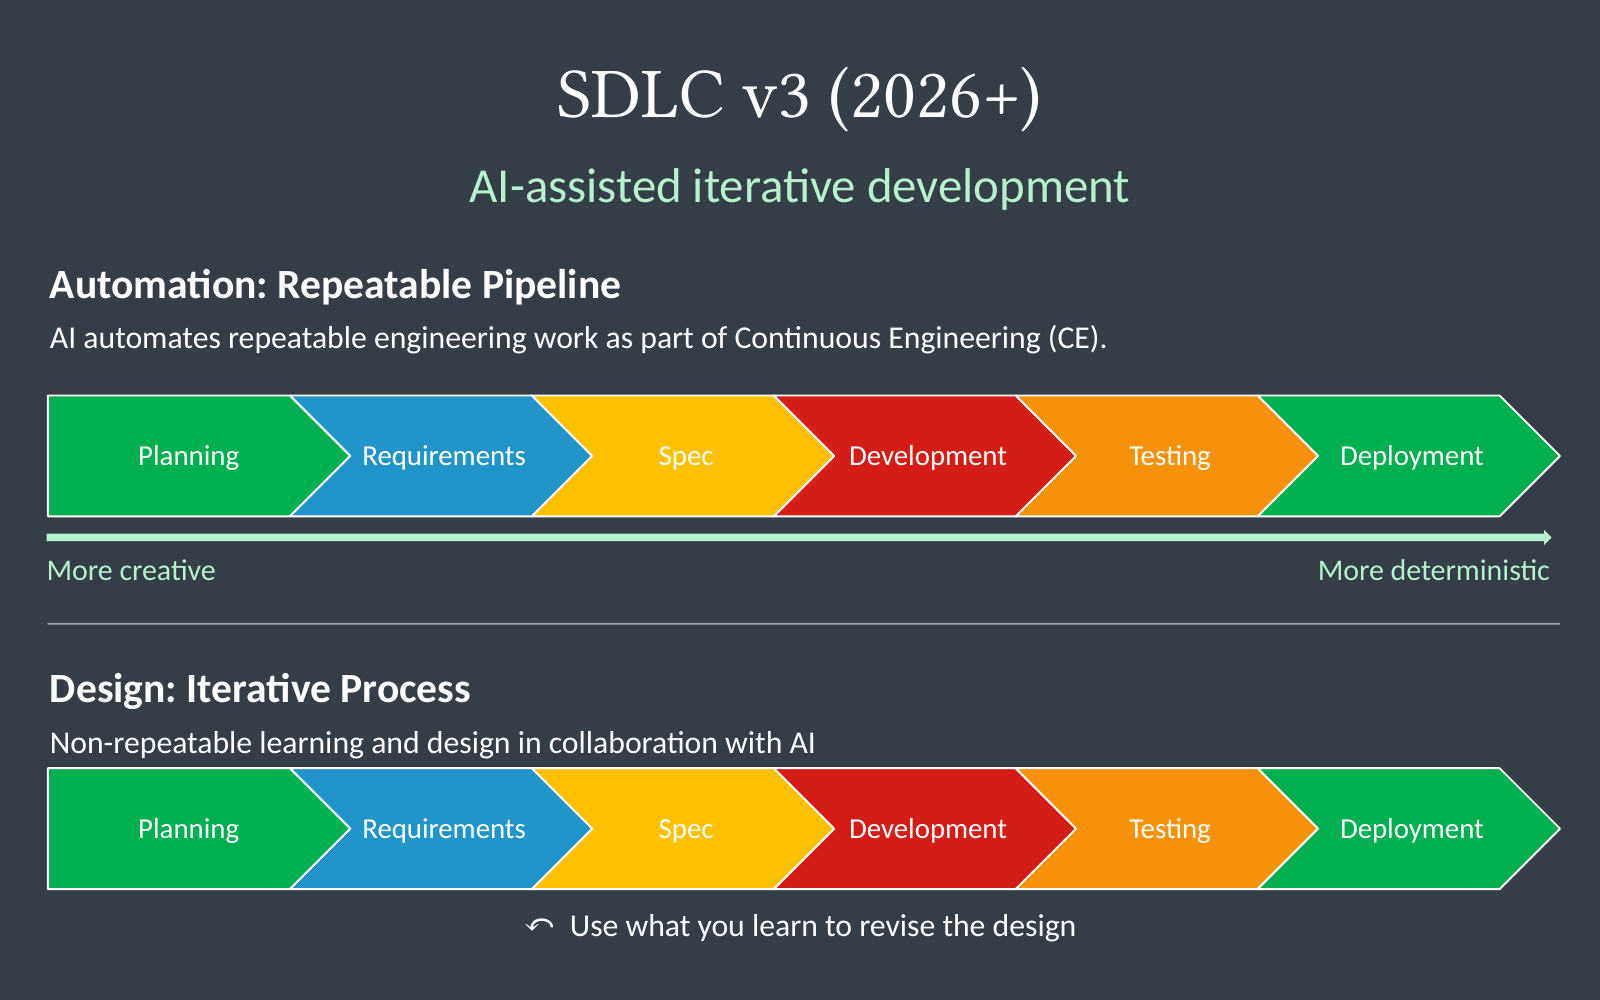
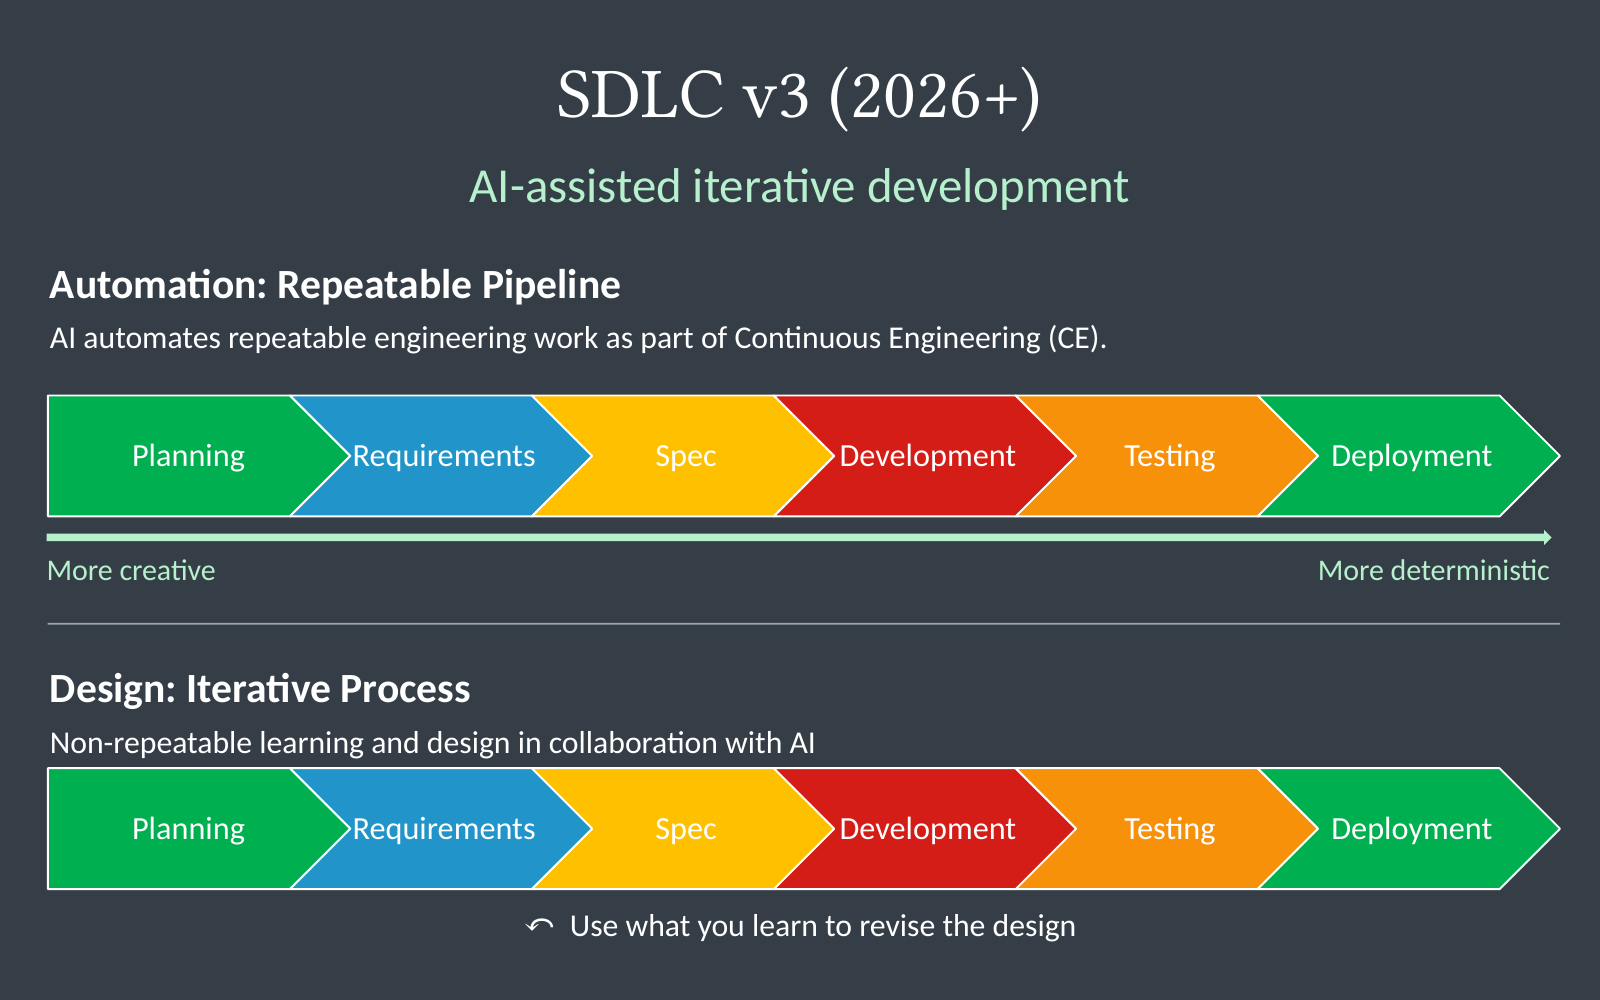
Publish SDLC article in slide format

diff --git a/_posts/2026-11-12-sdlc-in-the-agentic-era.md b/_posts/2026-11-12-sdlc-in-the-agentic-era.md
@@ -1,36 +1,49 @@
 ---
 published: true
 layout: post
-image: /assets/article_images/2026-11-12-sdlc-in-the-agentic-era/sdlc-v3.png
+permalink: /2026-11-12/sdlc-in-the-agentic-era
+image: /assets/article_images/2026-11-12-sdlc-in-the-agentic-era/cover.jpg
+catalogue_image: /assets/article_images/2026-11-12-sdlc-in-the-agentic-era/sdlc-v3.png
 image_width: 1600
 image_height: 1000
-title: The SDLC in the agentic era
+title: Evolution of the Software Development Lifecycle (SDLC)
 context: Essay
+excerpt_separator: "<!--more-->"
+excerpt: In 2026, software engineering is undergoing its most dramatic change yet. So how does this change the disciplined software engineering process?
 ---
 
-AI can automate more of the repeatable engineering work across the software development lifecycle. It can also help us try a design, test it and revise it. How does that change disciplined software engineering? Let’s look at how the lifecycle evolved.
+*Into the Agentic Era*
 
-[![SDLC v3 shows the same six stages in two lanes, an automated repeatable pipeline and an iterative design process.](/assets/article_images/2026-11-12-sdlc-in-the-agentic-era/sdlc-v3.png)](/assets/article_images/2026-11-12-sdlc-in-the-agentic-era/sdlc-v3.png)
+![Cover slide over a black-and-white photograph of Ford’s Highland Park assembly line, circa 1913. Photograph from the Library of Congress.](/assets/article_images/2026-11-12-sdlc-in-the-agentic-era/cover.jpg)
 
-## SDLC v1 (pre-2000) · Waterfall with handovers
+## SDLC in the Agentic Era
 
-In the waterfall view, planning, requirements and specification were seen as engineering design. The design was done up front and handed over. Development and testing were treated like manual manufacturing.
+In 2026, software engineering is undergoing its most dramatic change yet.
 
-Working code kept exposing details that the specification hadn’t settled. Writing it and testing it helped us discover the real complexity, the constraints and the flaws in how the solution fit the problem. The code itself was a design artefact. [Jack W. Reeves, *What Is Software Design?*](https://www.developerdotstar.com/mag/articles/reeves_design.html)
+So how does this change the disciplined software engineering process?
 
-## SDLC v2 (2002–2025) · Iterative development with CI/CD
+Let’s look at how the lifecycle evolved to understand it.
 
-Once you see development and testing as part of engineering design, the process looks different. You build something, see how it behaves and use what you learn to revise the design. CI/CD takes care of the repeatable work of building, running automated checks and delivering the software.
+<!--more-->
 
-## SDLC v3 (2026+) · AI-assisted iterative development
+[![SDLC v1 (pre-2000). Waterfall with handovers. Planning, requirements and spec were seen as upfront design. Development, testing and deployment were treated as manual manufacturing.](/assets/article_images/2026-11-12-sdlc-in-the-agentic-era/sdlc-v1.png)](/assets/article_images/2026-11-12-sdlc-in-the-agentic-era/sdlc-v1.png)
 
-The same stages now have two lanes. Both run through planning, requirements, specification, development, testing and deployment.
+[![SDLC v2 (2002–2025). Iterative development with CI/CD. Development and testing are part of iterative engineering design. Repeatable automation handles deployment. Use what you learn to revise the design.](/assets/article_images/2026-11-12-sdlc-in-the-agentic-era/sdlc-v2.png)](/assets/article_images/2026-11-12-sdlc-in-the-agentic-era/sdlc-v2.png)
 
-- **Automation** runs repeatable work through a pipeline. An agent can generate and review code. The pipeline can build it, run checks and deploy it. Some of those steps produce variable results, and others are more deterministic.
-- **Design** is the iterative work of deciding what to try and learning from it. An agent can help explore an option. We might choose a test environment and an audience, let the pipeline deploy to that target, then use what we learn to revise the design.
+[![SDLC v3 (2026+). AI-assisted iterative development. The same six stages appear in two lanes. AI automates repeatable engineering work in the pipeline and collaborates in the iterative design process.](/assets/article_images/2026-11-12-sdlc-in-the-agentic-era/sdlc-v3.png)](/assets/article_images/2026-11-12-sdlc-in-the-agentic-era/sdlc-v3.png)
 
 ## What can we learn from this change?
 
-1. **Automation. Move from CI/CD to Continuous Engineering (CE).** Use AI to automate repeatable engineering work throughout the lifecycle that CI/CD alone could not automate before.
-2. **Design. Use the extra room to iterate.** AI makes it easier to try, test and revise a design. As in earlier versions of the SDLC, a focus on automation and handovers can obscure the design loop.
-3. **Tooling. Build end-to-end pipelines.** Today’s tooling is split between agentic development environments and traditional CI/CD tools. I’d like to see them joined in one pipeline that carries a change from specification through delivery in a disciplined way.
+1. **Automation: Move from CI/CD to CE**
+
+   CE is Continuous Engineering.
+
+   Use AI to automate repeatable work throughout the lifecycle that CI/CD alone could not automate before.
+
+2. **Design: Use the extra room to iterate**
+
+   AI makes it easier to try, test and revise a design. As in earlier versions of the SDLC, a focus on automation and handovers can obscure the design loop.
+
+3. **Tooling: Build end-to-end pipelines**
+
+   Today’s tooling is split between agentic development environments (ADEs) and traditional CI/CD tools. I’d like to see them joined in one pipeline that carries a change from specification through delivery in a disciplined way.
